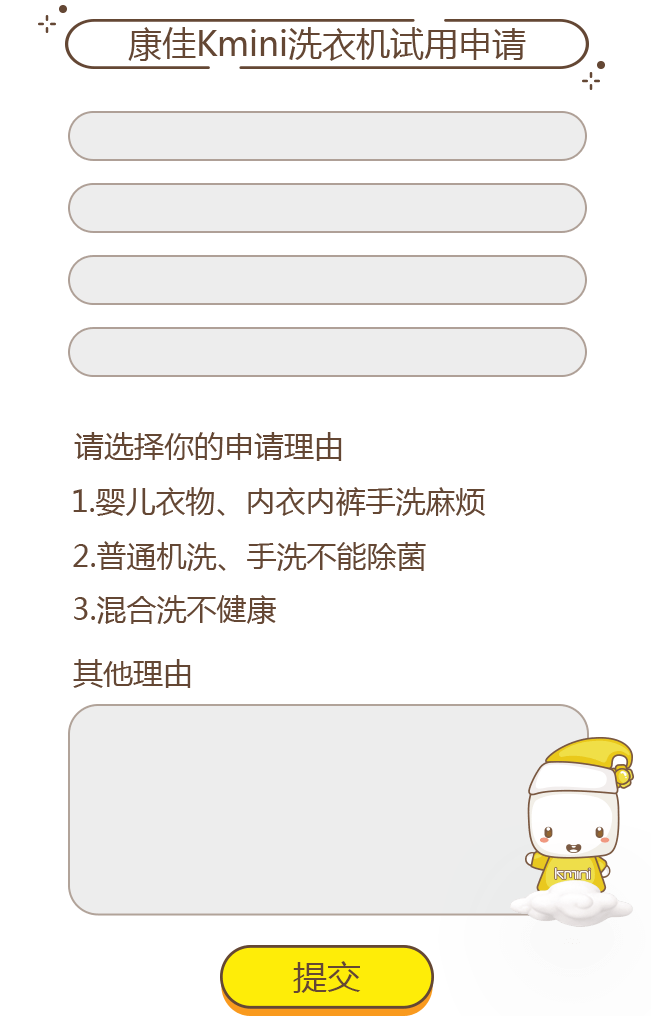
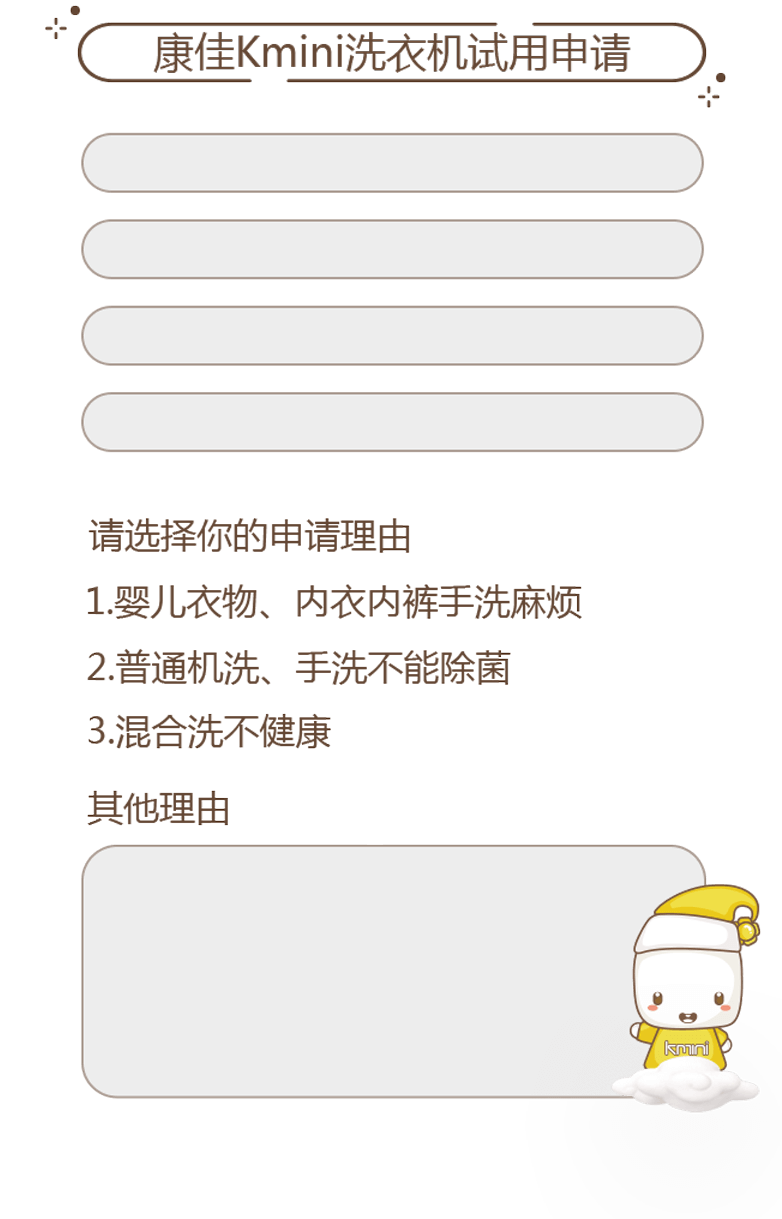
up

diff --git a/src/konka_washer/css/konka_washer.css b/src/konka_washer/css/konka_washer.css
@@ -303,7 +303,7 @@ body #screen .swiper-wrapper #try_form .try_form_container input {
 }
 html #screen .swiper-wrapper #try_form .try_form_container .name,
 body #screen .swiper-wrapper #try_form .try_form_container .name {
-  top: 15%;
+  top: 14.9%;
 }
 html #screen .swiper-wrapper #try_form .try_form_container .age,
 body #screen .swiper-wrapper #try_form .try_form_container .age {
@@ -311,11 +311,11 @@ body #screen .swiper-wrapper #try_form .try_form_container .age {
 }
 html #screen .swiper-wrapper #try_form .try_form_container .tel,
 body #screen .swiper-wrapper #try_form .try_form_container .tel {
-  top: 27.7%;
+  top: 27.6%;
 }
 html #screen .swiper-wrapper #try_form .try_form_container .address,
 body #screen .swiper-wrapper #try_form .try_form_container .address {
-  top: 34%;
+  top: 33.9%;
 }
 html #screen .swiper-wrapper #try_form .try_form_container .check-radio,
 body #screen .swiper-wrapper #try_form .try_form_container .check-radio {
@@ -334,15 +334,15 @@ body #screen .swiper-wrapper #try_form .try_form_container .check-radio.active {
 }
 html #screen .swiper-wrapper #try_form .try_form_container .reason-1,
 body #screen .swiper-wrapper #try_form .try_form_container .reason-1 {
-  top: 47.9%;
+  top: 47.7%;
 }
 html #screen .swiper-wrapper #try_form .try_form_container .reason-2,
 body #screen .swiper-wrapper #try_form .try_form_container .reason-2 {
-  top: 52.6%;
+  top: 52.4%;
 }
 html #screen .swiper-wrapper #try_form .try_form_container .reason-3,
 body #screen .swiper-wrapper #try_form .try_form_container .reason-3 {
-  top: 57.2%;
+  top: 57%;
 }
 html #screen .swiper-wrapper #try_form .try_form_container .other-reason,
 body #screen .swiper-wrapper #try_form .try_form_container .other-reason {
@@ -364,8 +364,21 @@ body #screen .swiper-wrapper #try_form .try_form_container .try-form-submit-btn 
   width: 30%;
   height: 8%;
   position: absolute;
-  bottom: 5%;
-  left: 35%;
+  bottom: 3%;
+  right: 15%;
+  background: url("../img/try/submit-btn.png") center center no-repeat;
+  background-size: 100% auto;
+}
+html #screen .swiper-wrapper #try_form .try_form_container .try-form-back-btn,
+body #screen .swiper-wrapper #try_form .try_form_container .try-form-back-btn {
+  display: inline-block;
+  width: 30%;
+  height: 8%;
+  position: absolute;
+  bottom: 3%;
+  left: 15%;
+  background: url("../img/info/back-btn.png") center center no-repeat;
+  background-size: 100% auto;
 }
 html #screen .swiper-wrapper #pay_success .pay-success-form,
 body #screen .swiper-wrapper #pay_success .pay-success-form {

diff --git a/src/konka_washer/css/konka_washer.less b/src/konka_washer/css/konka_washer.less
@@ -313,16 +313,16 @@ html,body{
                         left: 18%;
                     }
                     .name{
-                        top: 15%;
+                        top: 14.9%;
                     }
                     .age{
                         top: 21.3%;
                     }
                     .tel{
-                        top: 27.7%;
+                        top: 27.6%;
                     }
                     .address{
-                        top: 34%;
+                        top: 33.9%;
                     }
 
                     .check-radio{
@@ -339,13 +339,13 @@ html,body{
                         background-size: auto 100%;
                     }
                     .reason-1{
-                        top: 47.9%;
+                        top: 47.7%;
                     }
                     .reason-2{
-                        top: 52.6%;
+                        top: 52.4%;
                     }
                     .reason-3{
-                        top: 57.2%;
+                        top: 57%;
                     }
 
                     .other-reason{
@@ -367,8 +367,21 @@ html,body{
                         width: 30%;
                         height: 8%;
                         position: absolute;
-                        bottom: 5%;
-                        left: 35%;
+                        bottom: 3%;
+                        right: 15%;
+                        background: url("../img/try/submit-btn.png") center center no-repeat;
+                        background-size: 100% auto;
+                    }
+
+                    .try-form-back-btn{
+                        display: inline-block;
+                        width: 30%;
+                        height: 8%;
+                        position: absolute;
+                        bottom: 3%;
+                        left: 15%;
+                        background: url("../img/info/back-btn.png") center center no-repeat;
+                        background-size: 100% auto;
                     }
 
 

diff --git a/src/konka_washer/js/konka_washer.js b/src/konka_washer/js/konka_washer.js
@@ -306,6 +306,10 @@ define(['wx', 'base/env', 'base/wechat/wx_pay', 'base/wechat/wx', 'base/util', '
             createTryApply();
         });
 
+        $('#try_form .try-form-back-btn').on('click', function () {
+            screenSwiper.slideTo(SCREEN_SWIPER_INDEX.main);
+        });
+
         /***
          * pay_success
          * */

diff --git a/src/konka_washer/index.html b/src/konka_washer/index.html
@@ -79,6 +79,7 @@
                 <i class="reason-3 check-radio"></i>
                 <textarea class="other-reason" placeholder="请输入"></textarea>
                 <i class="try-form-submit-btn"></i>
+                <i class="try-form-back-btn"></i>
             </div>
         </section>
         <!--  pay_success  -->

diff --git a/src/konka_washer/js/es6/konka_washer.js b/src/konka_washer/js/es6/konka_washer.js
@@ -408,6 +408,9 @@ define(['wx', 'base/env', 'base/wechat/wx_pay', 'base/wechat/wx', 'base/util', '
                 createTryApply();
             });
 
+            $('#try_form .try-form-back-btn').on('click', () => {
+                screenSwiper.slideTo(SCREEN_SWIPER_INDEX.main);
+            });
 
 
 
